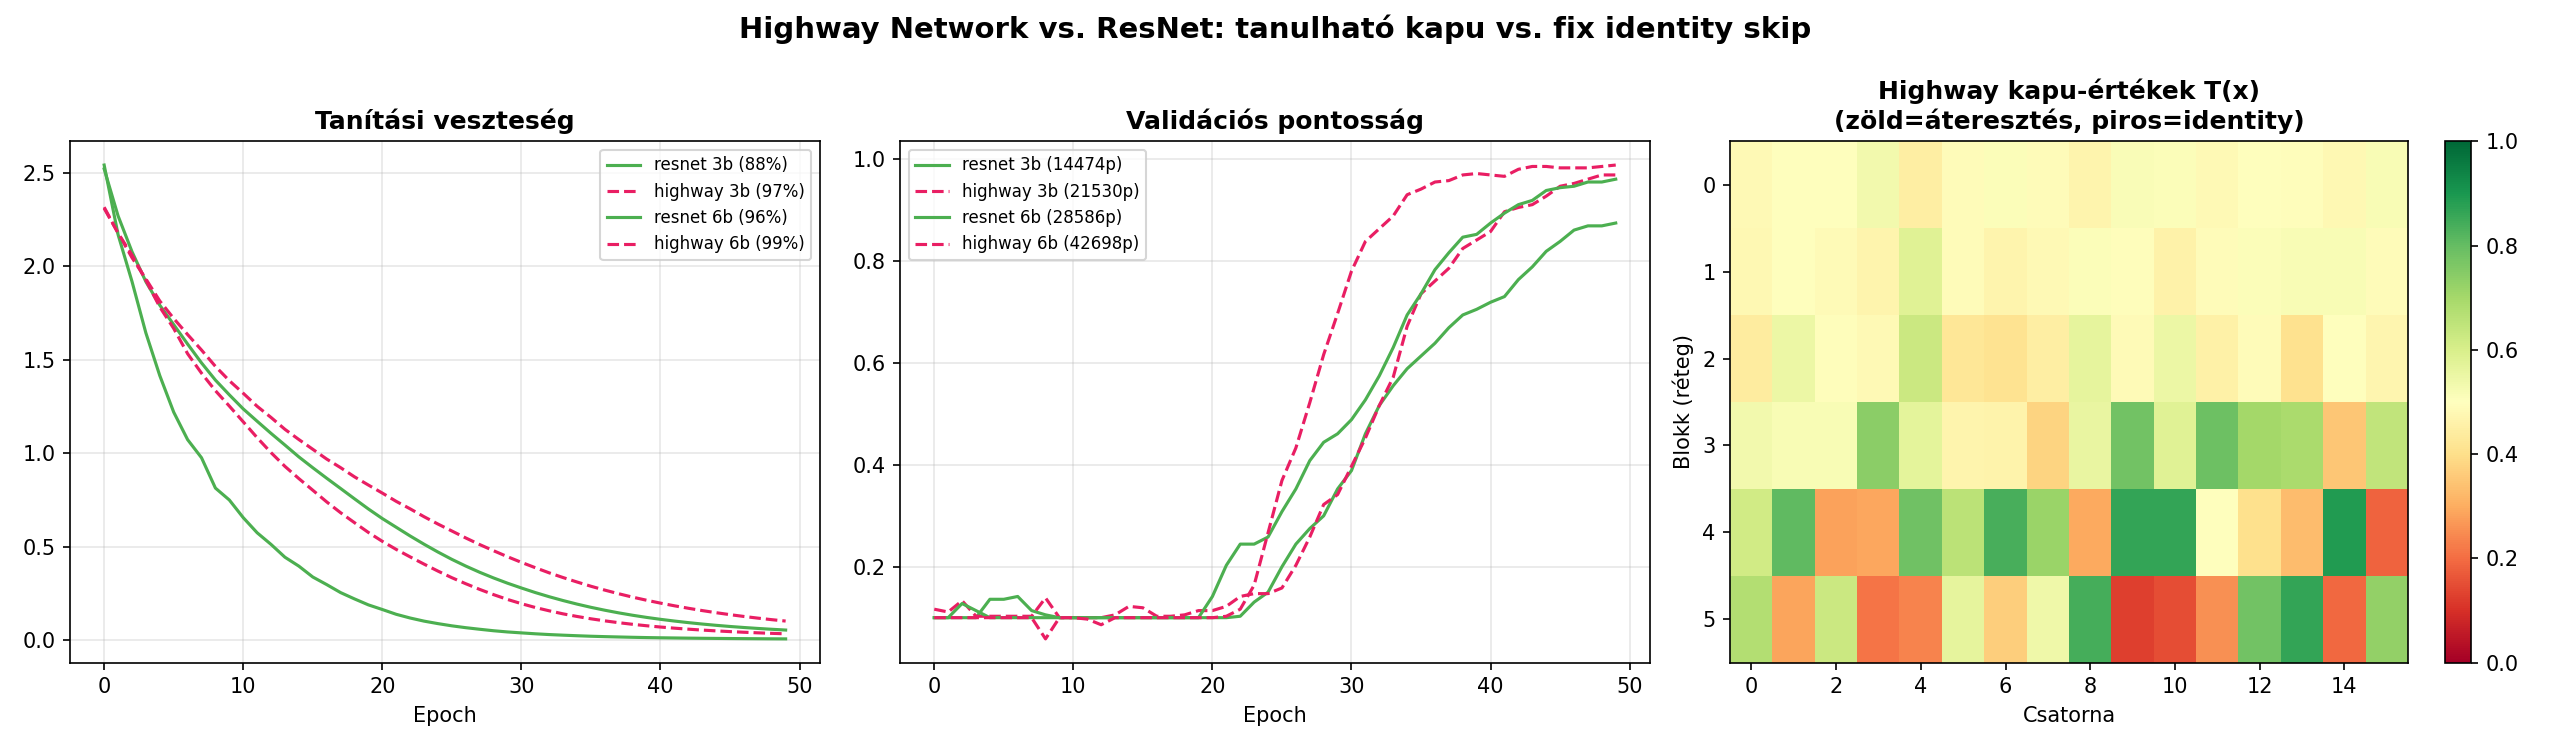
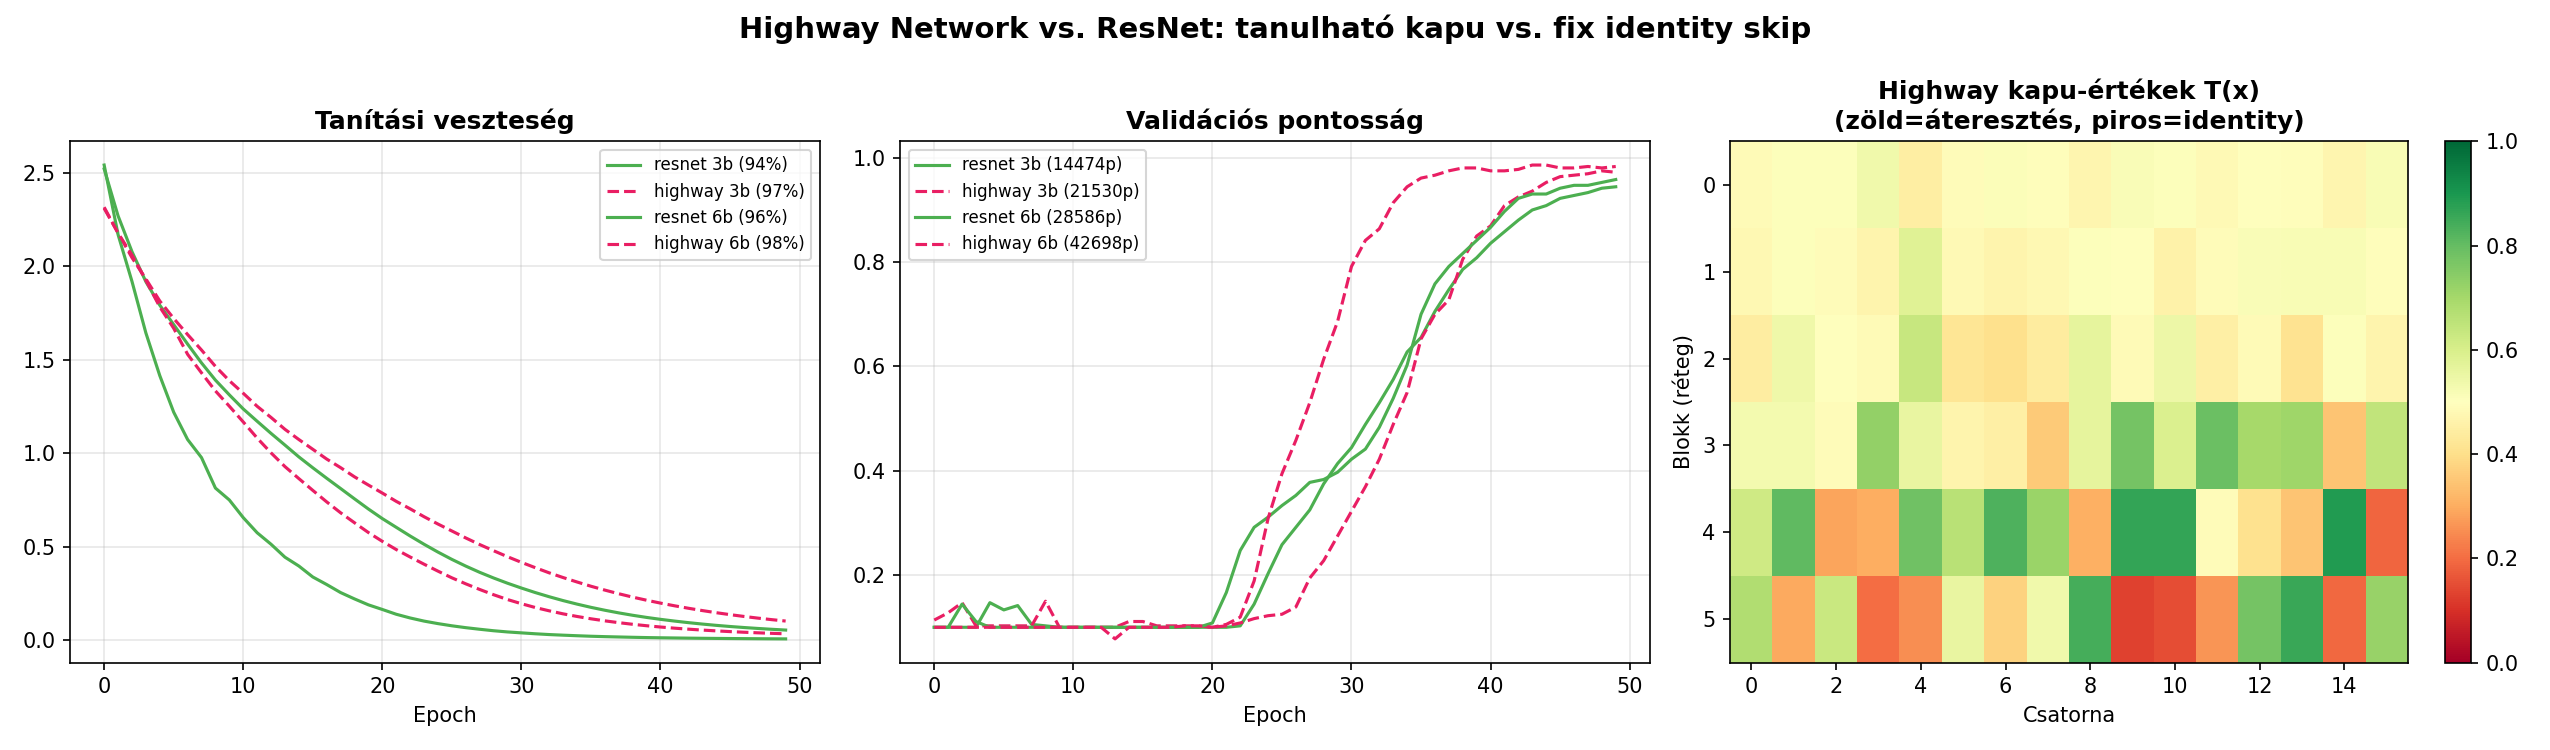
Updated

Changed region(s): [[0.3718, 0.3067, 0.5886, 0.8587], [0.5576, 0.2147, 0.6506, 0.3067]]

diff --git a/12_convolutional_networks/02_architectures/07_highway_vs_resnet.py b/12_convolutional_networks/02_architectures/07_highway_vs_resnet.py
@@ -16,13 +16,6 @@ from sklearn.datasets import load_digits
 from sklearn.model_selection import train_test_split
 
 
-# ── Adat ──
-digits = load_digits()
-X = torch.tensor(digits.data.astype(np.float32).reshape(-1, 1, 8, 8) / 16.0)
-y = torch.tensor(digits.target, dtype=torch.long)
-Xt, Xv, yt, yv = [torch.tensor(np.array(a)) for a in train_test_split(X, y, test_size=0.2, random_state=42, stratify=y.numpy())]
-
-
 # ══════════════════════════════════════════════════════════════
 # BLOKKOK
 # ══════════════════════════════════════════════════════════════
@@ -107,7 +100,19 @@ class ConfigurableNet(nn.Module):
         return gates
 
 
-def train_model(model, epochs=100, lr=0.005):
+def load_data(test_size=0.2, random_state=42):
+    """Digits adathalmaz betöltése és train/validation split."""
+    digits = load_digits()
+    X = torch.tensor(digits.data.astype(np.float32).reshape(-1, 1, 8, 8) / 16.0)
+    y = torch.tensor(digits.target, dtype=torch.long)
+    Xt, Xv, yt, yv = [
+        torch.tensor(np.array(a))
+        for a in train_test_split(X, y, test_size=test_size, random_state=random_state, stratify=y.numpy())
+    ]
+    return Xt, Xv, yt, yv
+
+
+def train_model(model, Xt, Xv, yt, yv, epochs=100, lr=0.005):
     optimizer = torch.optim.Adam(model.parameters(), lr=lr)
     criterion = nn.CrossEntropyLoss()
     train_losses, val_accs = [], []
@@ -124,81 +129,87 @@ def train_model(model, epochs=100, lr=0.005):
     return train_losses, val_accs
 
 
-# ══════════════════════════════════════════════════════════════
-# 1. KÍSÉRLET: Highway vs. ResNet
-# ══════════════════════════════════════════════════════════════
+def run_highway_vs_resnet_experiment(Xt, Xv, yt, yv):
+    """Highway és ResNet modellek összehasonlítása, valamint kapu-vizualizáció."""
+    print("=" * 60)
+    print("1. HIGHWAY NETWORK vs. RESNET")
+    print("=" * 60)
 
-print("=" * 60)
-print("1. HIGHWAY NETWORK vs. RESNET")
-print("=" * 60)
+    fig1, axes1 = plt.subplots(1, 3, figsize=(17, 5))
 
-fig1, axes1 = plt.subplots(1, 3, figsize=(17, 5))
+    for n_blocks in [3, 6]:
+        for btype, color, ls in [('resnet', '#4CAF50', '-'), ('highway', '#E91E63', '--')]:
+            torch.manual_seed(42)
+            model = ConfigurableNet(n_blocks, btype)
+            n_params = sum(p.numel() for p in model.parameters())
+            tl, va = train_model(model, Xt, Xv, yt, yv, epochs=50)
+            axes1[0].plot(tl, color=color, linestyle=ls, linewidth=1.5,
+                          label=f"{btype} {n_blocks}b ({va[-1]*100:.0f}%)")
+            axes1[1].plot(va, color=color, linestyle=ls, linewidth=1.5,
+                          label=f"{btype} {n_blocks}b ({n_params}p)")
+            print(f"  {btype:8s} {n_blocks} blokk: acc={va[-1]*100:.1f}%, params={n_params}")
 
-for n_blocks in [3, 6]:
-    for btype, color, ls in [('resnet', '#4CAF50', '-'), ('highway', '#E91E63', '--')]:
-        torch.manual_seed(42)
-        model = ConfigurableNet(n_blocks, btype)
-        n_params = sum(p.numel() for p in model.parameters())
-        tl, va = train_model(model, epochs=50)
-        axes1[0].plot(tl, color=color, linestyle=ls, linewidth=1.5,
-                      label=f"{btype} {n_blocks}b ({va[-1]*100:.0f}%)")
-        axes1[1].plot(va, color=color, linestyle=ls, linewidth=1.5,
-                      label=f"{btype} {n_blocks}b ({n_params}p)")
-        print(f"  {btype:8s} {n_blocks} blokk: acc={va[-1]*100:.1f}%, params={n_params}")
+    axes1[0].set_title("Tanítási veszteség", fontweight="bold")
+    axes1[0].set_xlabel("Epoch"); axes1[0].legend(fontsize=8); axes1[0].grid(True, alpha=0.3)
+    axes1[1].set_title("Validációs pontosság", fontweight="bold")
+    axes1[1].set_xlabel("Epoch"); axes1[1].legend(fontsize=8); axes1[1].grid(True, alpha=0.3)
 
-axes1[0].set_title("Tanítási veszteség", fontweight="bold")
-axes1[0].set_xlabel("Epoch"); axes1[0].legend(fontsize=8); axes1[0].grid(True, alpha=0.3)
-axes1[1].set_title("Validációs pontosság", fontweight="bold")
-axes1[1].set_xlabel("Epoch"); axes1[1].legend(fontsize=8); axes1[1].grid(True, alpha=0.3)
+    torch.manual_seed(42)
+    hw_model = ConfigurableNet(6, 'highway')
+    train_model(hw_model, Xt, Xv, yt, yv, epochs=80)
+    hw_model.eval()
 
-# 2. Kapu-értékek vizualizáció
-torch.manual_seed(42)
-hw_model = ConfigurableNet(6, 'highway')
-train_model(hw_model, epochs=80)
-hw_model.eval()
+    with torch.no_grad():
+        gates = hw_model.get_gate_map(Xv[:1])
 
-with torch.no_grad():
-    gates = hw_model.get_gate_map(Xv[:1])
+    ax = axes1[2]
+    gate_matrix = np.array(gates)  # (n_blocks, channels)
+    im = ax.imshow(gate_matrix, cmap="RdYlGn", aspect="auto", vmin=0, vmax=1)
+    ax.set_xlabel("Csatorna"); ax.set_ylabel("Blokk (réteg)")
+    ax.set_title("Highway kapu-értékek T(x)\n(zöld=áteresztés, piros=identity)", fontweight="bold")
+    plt.colorbar(im, ax=ax, fraction=0.046)
 
-ax = axes1[2]
-gate_matrix = np.array(gates)  # (n_blocks, channels)
-im = ax.imshow(gate_matrix, cmap="RdYlGn", aspect="auto", vmin=0, vmax=1)
-ax.set_xlabel("Csatorna"); ax.set_ylabel("Blokk (réteg)")
-ax.set_title("Highway kapu-értékek T(x)\n(zöld=áteresztés, piros=identity)", fontweight="bold")
-plt.colorbar(im, ax=ax, fraction=0.046)
+    fig1.suptitle("Highway Network vs. ResNet: tanulható kapu vs. fix identity skip",
+                  fontsize=14, fontweight="bold")
+    fig1.tight_layout()
+    fig1.savefig("07_highway_vs_resnet.png", dpi=150)
+    print("\nÁbra mentve: 07_highway_vs_resnet.png")
 
-fig1.suptitle("Highway Network vs. ResNet: tanulható kapu vs. fix identity skip",
-              fontsize=14, fontweight="bold")
-fig1.tight_layout()
-fig1.savefig("07_highway_vs_resnet.png", dpi=150)
-print("\nÁbra mentve: 07_highway_vs_resnet.png")
 
-# ══════════════════════════════════════════════════════════════
-# 2. ÖSSZEFOGLALÓ: SKIP-VARIÁNSOK
-# ══════════════════════════════════════════════════════════════
+def create_skip_summary_figure():
+    """Összefoglaló táblázat különböző skip connection variánsokról."""
+    fig2, ax2 = plt.subplots(figsize=(12, 5))
+    ax2.axis("off")
+    data = [
+        ["", "Highway Network", "ResNet", "DenseNet"],
+        ["Év", "2015 (Srivastava,\nSchmidhuber)", "2015 (He et al.)", "2017 (Huang et al.)"],
+        ["Skip típus", "y = T·H(x) + (1-T)·x\nTANULHATÓ kapu", "y = F(x) + x\nFIX identity", "y = [x, F1(x), F2(x),...]\nKONKATENÁCIÓ"],
+        ["Extra param.", "Igen (kapu hálózat)", "Nincs", "Nincs (de nő a\ncsatornaszám)"],
+        ["Gradiens", "T(x) szabályozza", "Mindig 1 (direkt út)", "Minden rétegből\ndirekt út"],
+        ["Erősség", "Adaptív: a háló\ndönti el mi fontos", "Egyszerű, stabil,\njól skálázódik", "Feature reuse,\nkevés paraméter"],
+    ]
+    table = ax2.table(cellText=data, loc="center", cellLoc="center")
+    table.auto_set_font_size(False); table.set_fontsize(9); table.scale(1.0, 2.4)
+    for j in range(4):
+        table[0, j].set_facecolor("#37474F")
+        table[0, j].set_text_props(color="white", fontweight="bold")
+    for i in range(1, len(data)):
+        table[i, 0].set_facecolor("#ECEFF1")
+        table[i, 0].set_text_props(fontweight="bold")
+    ax2.set_title("Skip connection variánsok összehasonlítása", fontsize=14, fontweight="bold", pad=20)
+    fig2.tight_layout()
+    fig2.savefig("07_skip_variansok.png", dpi=150)
+    print("Ábra mentve: 07_skip_variansok.png")
 
-fig2, ax2 = plt.subplots(figsize=(12, 5))
-ax2.axis("off")
-data = [
-    ["", "Highway Network", "ResNet", "DenseNet"],
-    ["Év", "2015 (Srivastava,\nSchmidhuber)", "2015 (He et al.)", "2017 (Huang et al.)"],
-    ["Skip típus", "y = T·H(x) + (1-T)·x\nTANULHATÓ kapu", "y = F(x) + x\nFIX identity", "y = [x, F1(x), F2(x),...]\nKONKATENÁCIÓ"],
-    ["Extra param.", "Igen (kapu hálózat)", "Nincs", "Nincs (de nő a\ncsatornaszám)"],
-    ["Gradiens", "T(x) szabályozza", "Mindig 1 (direkt út)", "Minden rétegből\ndirekt út"],
-    ["Erősség", "Adaptív: a háló\ndönti el mi fontos", "Egyszerű, stabil,\njól skálázódik", "Feature reuse,\nkevés paraméter"],
-]
-table = ax2.table(cellText=data, loc="center", cellLoc="center")
-table.auto_set_font_size(False); table.set_fontsize(9); table.scale(1.0, 2.4)
-for j in range(4):
-    table[0, j].set_facecolor("#37474F")
-    table[0, j].set_text_props(color="white", fontweight="bold")
-for i in range(1, len(data)):
-    table[i, 0].set_facecolor("#ECEFF1")
-    table[i, 0].set_text_props(fontweight="bold")
-ax2.set_title("Skip connection variánsok összehasonlítása", fontsize=14, fontweight="bold", pad=20)
-fig2.tight_layout()
-fig2.savefig("07_skip_variansok.png", dpi=150)
-print("Ábra mentve: 07_skip_variansok.png")
 
-plt.close("all")
-print("\nKész!")
+def main():
+    Xt, Xv, yt, yv = load_data()
+    run_highway_vs_resnet_experiment(Xt, Xv, yt, yv)
+    create_skip_summary_figure()
+    plt.close("all")
+    print("\nKész!")
+
+
+if __name__ == '__main__':
+    main()
+
